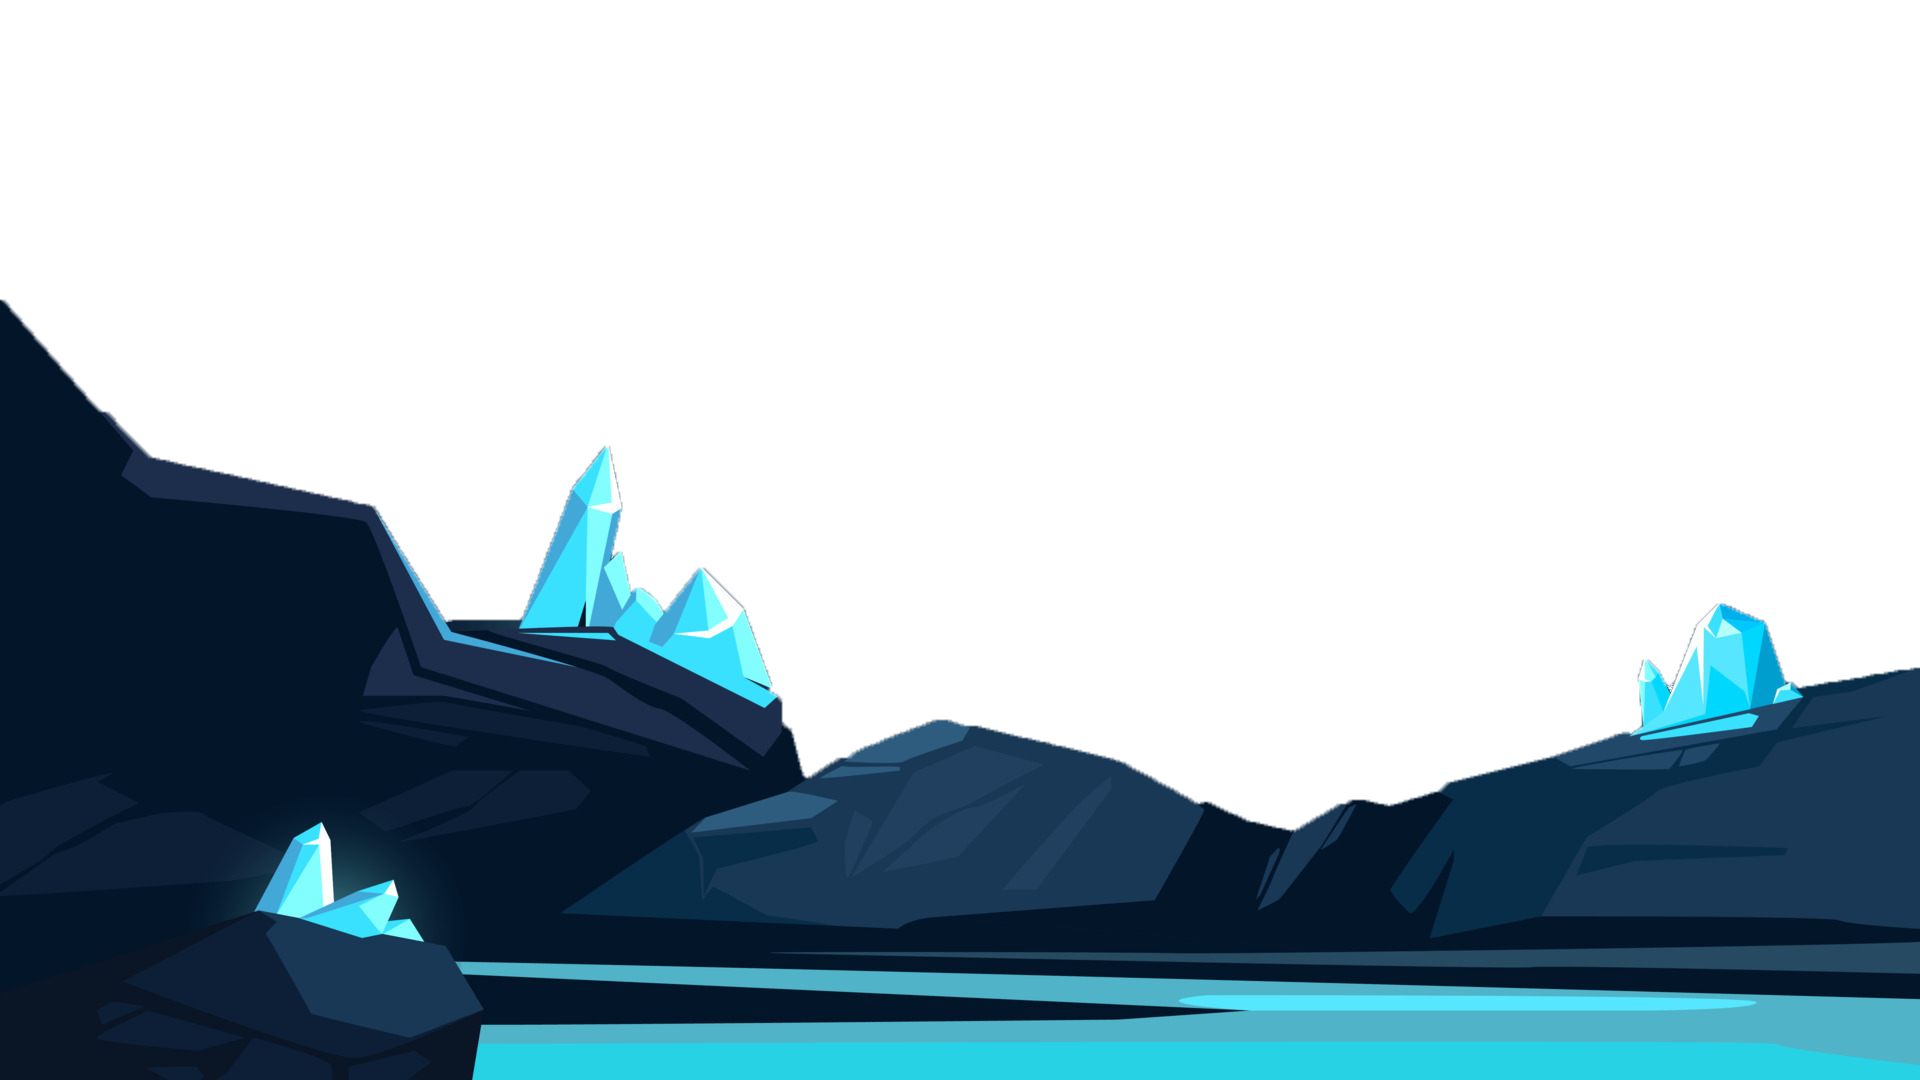
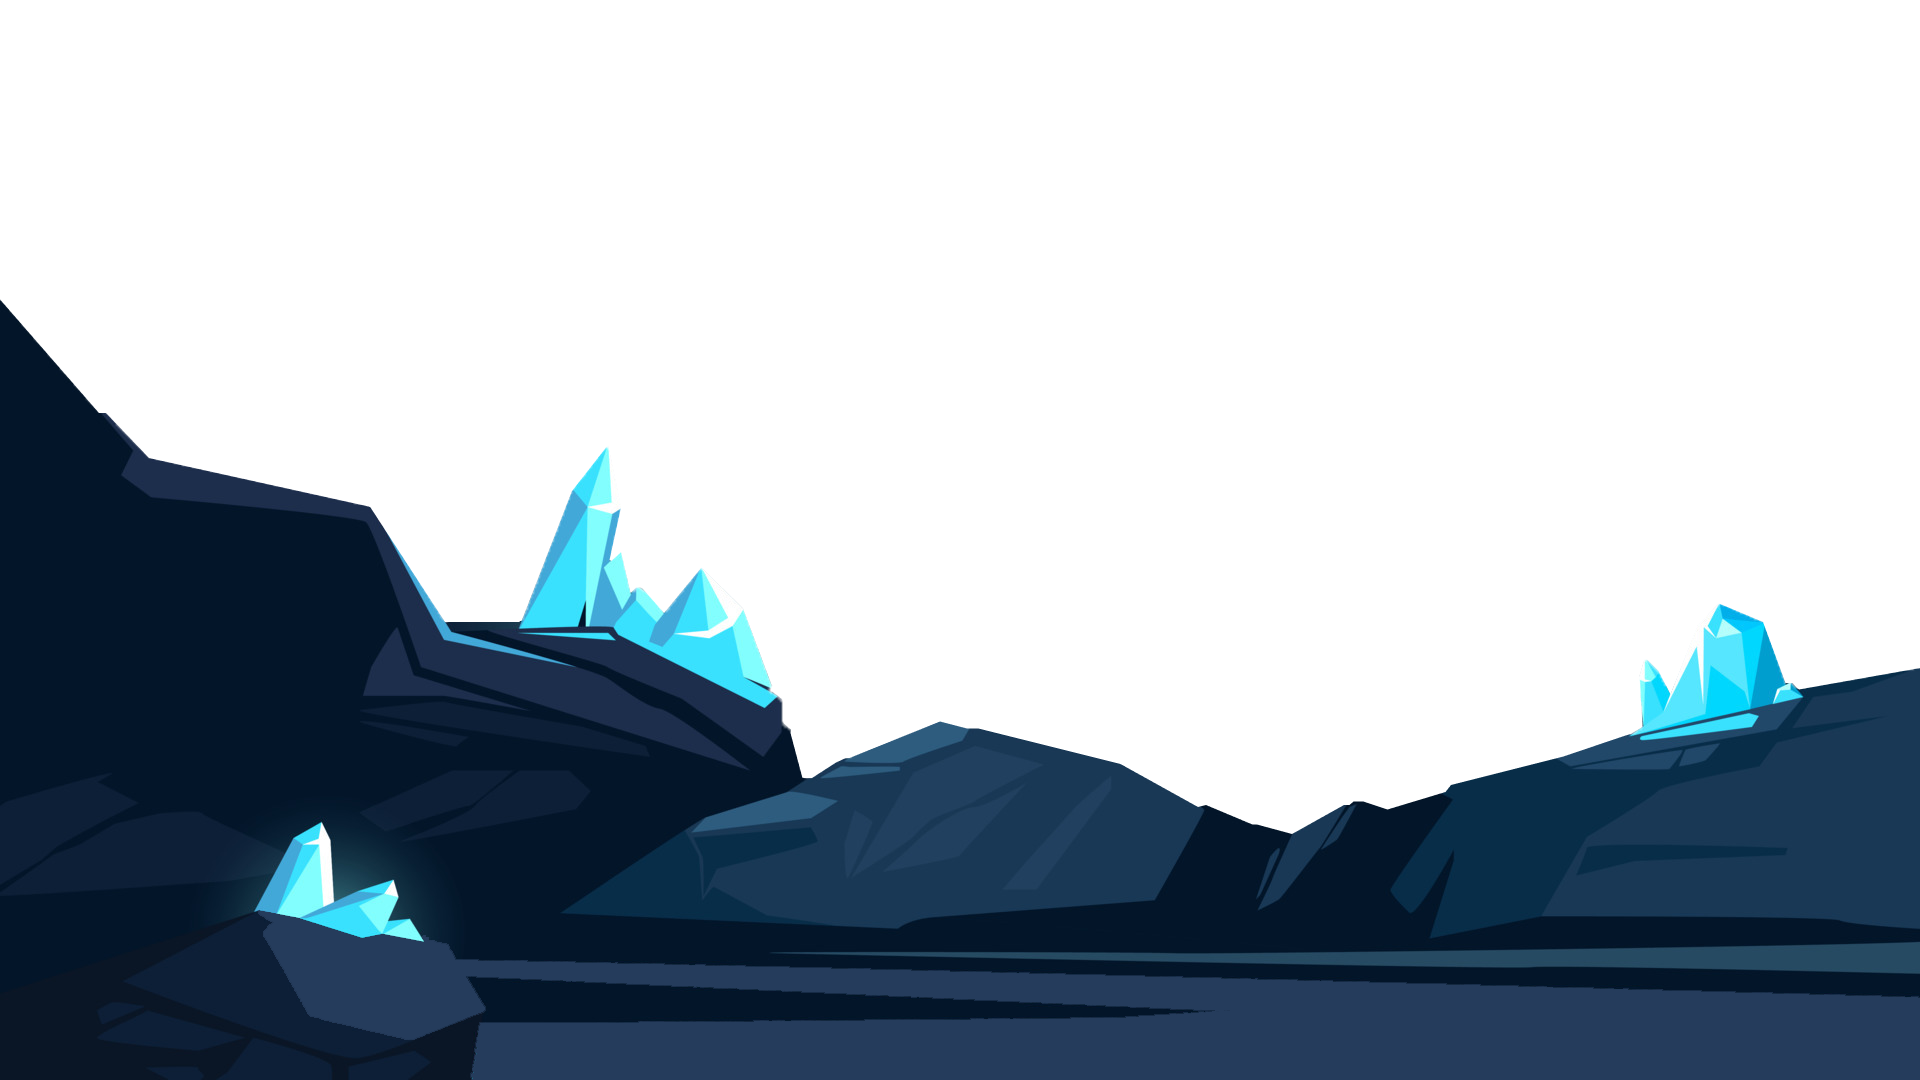
Style: Contact 패럴랙스 배경 이미지 변경

diff --git a/src/components/Contact.jsx b/src/components/Contact.jsx
@@ -1,82 +1,81 @@
-import React, { useRef } from "react";
+import React from "react";
 import { Parallax } from "react-parallax";
 import Footer from "./Footer";
-import { motion, useScroll, useTransform } from "framer-motion";
+import { motion } from "framer-motion";
 import ContactMemo from "./ContactMemo";
 
 //이메일, 전화번호
 //방명록 목록, 방명록 작성
 
 const Contact = () => {
-  const parallaxRef = useRef(null);
-  const { scrollYProgress } = useScroll({
-    target: parallaxRef,
-    offset: ["end end", "start end"],
-  });
-  const starY = useTransform(scrollYProgress, [0, 1], ["0%", "10%"]);
   return (
-    <Parallax strength={350} bgImage={"/bg/purple.jpeg"}>
-      <div className="contact-section" ref={parallaxRef}>
-        <h1 className="contact-title">Contact</h1>
-        <div className="contact-me">
-          <div className="contact-info">
-            <div>
-              <svg
-                xmlns="http://www.w3.org/2000/svg"
-                fill="none"
-                viewBox="0 0 24 24"
-                strokeWidth="1.5"
-                stroke="currentColor"
-              >
-                <path
-                  strokeLinecap="round"
-                  strokeLinejoin="round"
-                  d="M21.75 6.75v10.5a2.25 2.25 0 0 1-2.25 2.25h-15a2.25 2.25 0 0 1-2.25-2.25V6.75m19.5 0A2.25 2.25 0 0 0 19.5 4.5h-15a2.25 2.25 0 0 0-2.25 2.25m19.5 0v.243a2.25 2.25 0 0 1-1.07 1.916l-7.5 4.615a2.25 2.25 0 0 1-2.36 0L3.32 8.91a2.25 2.25 0 0 1-1.07-1.916V6.75"
-                />
-              </svg>
-              jungwook3176@gmail.com
-            </div>
-            <div>
-              <svg
-                xmlns="http://www.w3.org/2000/svg"
-                fill="none"
-                viewBox="0 0 24 24"
-              >
-                <path
-                  strokeLinecap="round"
-                  strokeLinejoin="round"
-                  d="M2.25 6.75c0 8.284 6.716 15 15 15h2.25a2.25 2.25 0 0 0 2.25-2.25v-1.372c0-.516-.351-.966-.852-1.091l-4.423-1.106c-.44-.11-.902.055-1.173.417l-.97 1.293c-.282.376-.769.542-1.21.38a12.035 12.035 0 0 1-7.143-7.143c-.162-.441.004-.928.38-1.21l1.293-.97c.363-.271.527-.734.417-1.173L6.963 3.102a1.125 1.125 0 0 0-1.091-.852H4.5A2.25 2.25 0 0 0 2.25 4.5v2.25Z"
-                />
-              </svg>
-              (+82)10-3176-0315
-            </div>
-            <div>
-              <svg
-                xmlns="http://www.w3.org/2000/svg"
-                fill="none"
-                viewBox="0 0 24 24"
-              >
-                <path
-                  strokeLinecap="round"
-                  strokeLinejoin="round"
-                  d="M15 10.5a3 3 0 1 1-6 0 3 3 0 0 1 6 0Z"
-                />
-                <path
-                  strokeLinecap="round"
-                  strokeLinejoin="round"
-                  d="M19.5 10.5c0 7.142-7.5 11.25-7.5 11.25S4.5 17.642 4.5 10.5a7.5 7.5 0 1 1 15 0Z"
-                />
-              </svg>
-              서울시 강동구 강일동
-            </div>
-          </div>
-          <ContactMemo/>
-        </div>
+    <>
+      <Parallax strength={300} bgImage="/bg/cave.png">
+        <Parallax strength={-80} bgImage="/bg/cave2.png">
+          <Parallax strength={-200} bgImage="/bg/stone.png">
 
-        <motion.div className="bg-stars" style={{ y: starY }} />
-        <Footer />
-      </div>
-    </Parallax>
+          <div className="contact-section">
+          <h1 className="contact-title">Contact</h1>
+          <div className="contact-me">
+            <div className="contact-info">
+              <div>
+                <svg
+                  xmlns="http://www.w3.org/2000/svg"
+                  fill="none"
+                  viewBox="0 0 24 24"
+                  strokeWidth="1.5"
+                  stroke="currentColor"
+                >
+                  <path
+                    strokeLinecap="round"
+                    strokeLinejoin="round"
+                    d="M21.75 6.75v10.5a2.25 2.25 0 0 1-2.25 2.25h-15a2.25 2.25 0 0 1-2.25-2.25V6.75m19.5 0A2.25 2.25 0 0 0 19.5 4.5h-15a2.25 2.25 0 0 0-2.25 2.25m19.5 0v.243a2.25 2.25 0 0 1-1.07 1.916l-7.5 4.615a2.25 2.25 0 0 1-2.36 0L3.32 8.91a2.25 2.25 0 0 1-1.07-1.916V6.75"
+                  />
+                </svg>
+                jungwook3176@gmail.com
+              </div>
+              <div>
+                <svg
+                  xmlns="http://www.w3.org/2000/svg"
+                  fill="none"
+                  viewBox="0 0 24 24"
+                >
+                  <path
+                    strokeLinecap="round"
+                    strokeLinejoin="round"
+                    d="M2.25 6.75c0 8.284 6.716 15 15 15h2.25a2.25 2.25 0 0 0 2.25-2.25v-1.372c0-.516-.351-.966-.852-1.091l-4.423-1.106c-.44-.11-.902.055-1.173.417l-.97 1.293c-.282.376-.769.542-1.21.38a12.035 12.035 0 0 1-7.143-7.143c-.162-.441.004-.928.38-1.21l1.293-.97c.363-.271.527-.734.417-1.173L6.963 3.102a1.125 1.125 0 0 0-1.091-.852H4.5A2.25 2.25 0 0 0 2.25 4.5v2.25Z"
+                  />
+                </svg>
+                (+82)10-3176-0315
+              </div>
+              <div>
+                <svg
+                  xmlns="http://www.w3.org/2000/svg"
+                  fill="none"
+                  viewBox="0 0 24 24"
+                >
+                  <path
+                    strokeLinecap="round"
+                    strokeLinejoin="round"
+                    d="M15 10.5a3 3 0 1 1-6 0 3 3 0 0 1 6 0Z"
+                  />
+                  <path
+                    strokeLinecap="round"
+                    strokeLinejoin="round"
+                    d="M19.5 10.5c0 7.142-7.5 11.25-7.5 11.25S4.5 17.642 4.5 10.5a7.5 7.5 0 1 1 15 0Z"
+                  />
+                </svg>
+                서울시 강동구 강일동
+              </div>
+            </div>
+            <ContactMemo />
+          </div>
+          <Footer />
+        </div>
+          </Parallax>
+        </Parallax>
+      </Parallax>
+    </>
   );
 };
 

diff --git a/src/assets/main.scss b/src/assets/main.scss
@@ -800,16 +800,6 @@
             }
         }
     }
-
-    .bg-stars {
-        position: absolute;
-        inset: 0;
-        z-index: 10;
-        background-image: url("../../public/bg/stars.png");
-        background-position: bottom;
-        background-size: cover;
-    }
-
     .footer {
         z-index: 11;
         position: absolute;
